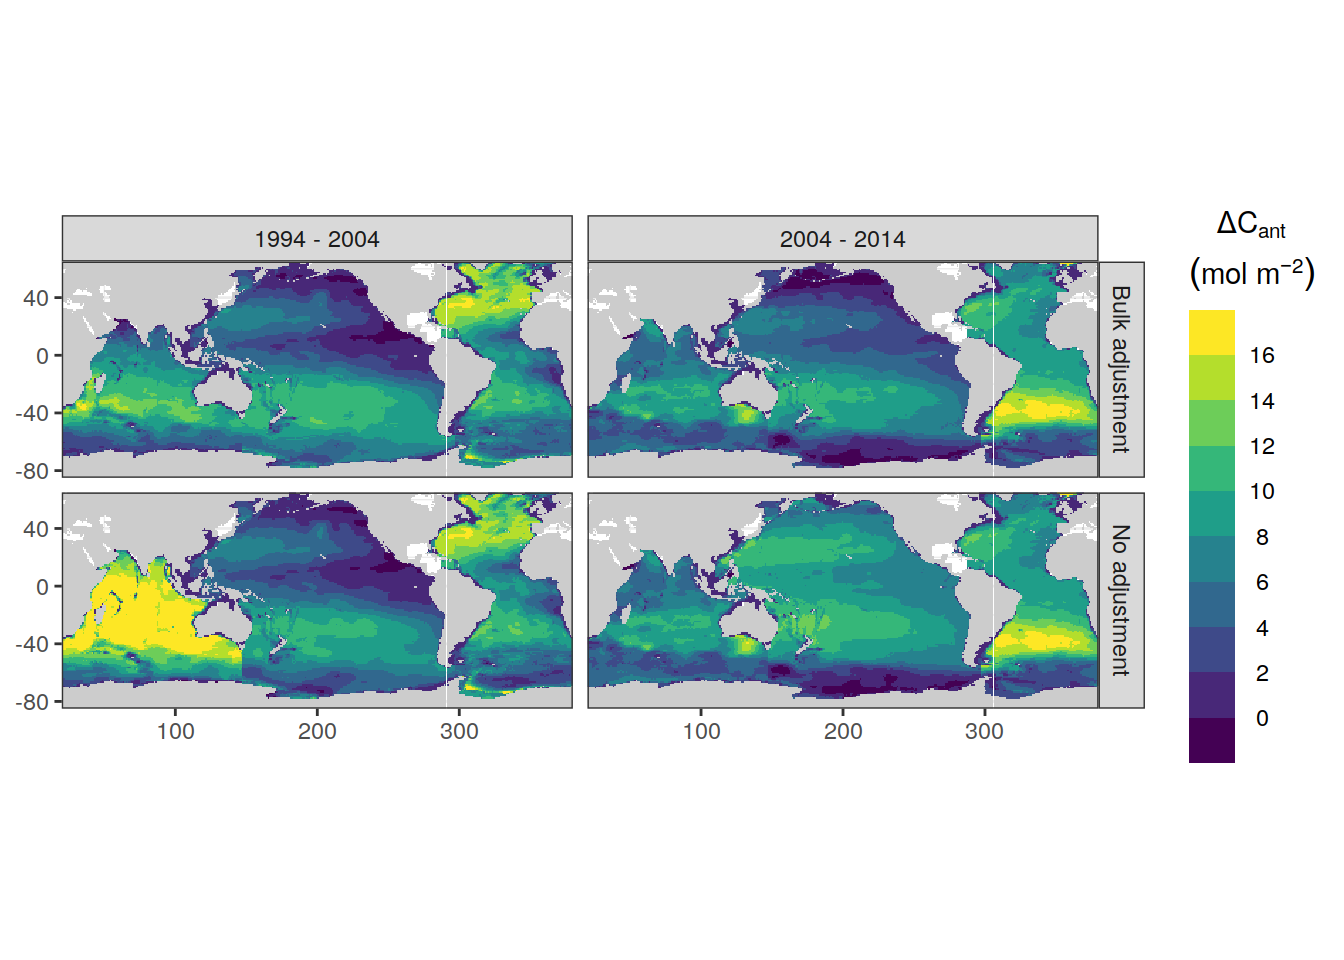
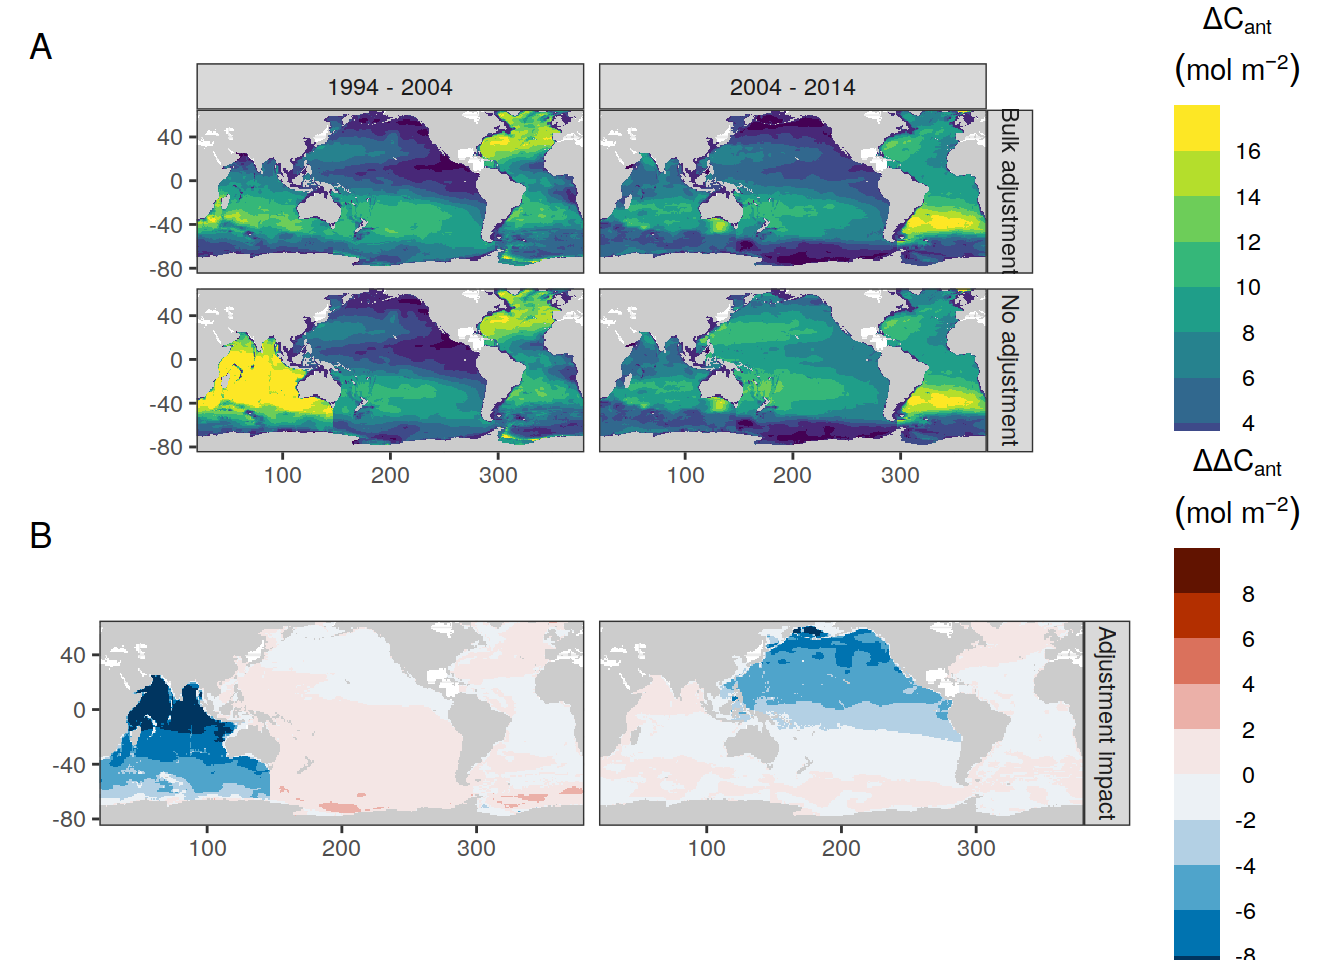
Build site.

diff --git a/docs/results_publication.html b/docs/results_publication.html
@@ -666,7 +666,7 @@ div.tocify {
 
 <h1 class="title toc-ignore">Results publication</h1>
 <h4 class="author">Jens Daniel Müller</h4>
-<h4 class="date">11 August, 2022</h4>
+<h4 class="date">17 August, 2022</h4>
 
 </div>
 
@@ -691,7 +691,7 @@ div.tocify {
 <div class="tab-content">
 <div id="summary" class="tab-pane fade in active">
 <p>
-<strong>Last updated:</strong> 2022-08-11
+<strong>Last updated:</strong> 2022-08-17
 </p>
 <p>
 <strong>Checks:</strong> <span class="glyphicon glyphicon-ok text-success" aria-hidden="true"></span> 7 <span class="glyphicon glyphicon-exclamation-sign text-danger" aria-hidden="true"></span> 0
@@ -782,16 +782,16 @@ This reproducible <a href="https://rmarkdown.rstudio.com">R Markdown</a> analysi
 <div class="panel panel-default">
 <div class="panel-heading">
 <p class="panel-title">
-<a data-toggle="collapse" data-parent="#workflowr-checks" href="#strongRepositoryversionstrongahrefhttpsgithubcomjensdanielmuelleremlrobsanalysistreed1cd39ad14c48bfc0824015935bd99fa0f0ff6d4targetblankd1cd39aa"> <span class="glyphicon glyphicon-ok text-success" aria-hidden="true"></span> <strong>Repository version:</strong> <a href="https://github.com/jens-daniel-mueller/emlr_obs_analysis/tree/d1cd39ad14c48bfc0824015935bd99fa0f0ff6d4" target="_blank">d1cd39a</a> </a>
+<a data-toggle="collapse" data-parent="#workflowr-checks" href="#strongRepositoryversionstrongahrefhttpsgithubcomjensdanielmuelleremlrobsanalysistree37ab61fed08648e21f1d213b0951e92988c08680targetblank37ab61fa"> <span class="glyphicon glyphicon-ok text-success" aria-hidden="true"></span> <strong>Repository version:</strong> <a href="https://github.com/jens-daniel-mueller/emlr_obs_analysis/tree/37ab61fed08648e21f1d213b0951e92988c08680" target="_blank">37ab61f</a> </a>
 </p>
 </div>
[2 lines of base64/hex data omitted]
 <div class="panel-body">
 <p>
 Great! You are using Git for version control. Tracking code development and connecting the code version to the results is critical for reproducibility.
 </p>
 <p>
-The results in this page were generated with repository version <a href="https://github.com/jens-daniel-mueller/emlr_obs_analysis/tree/d1cd39ad14c48bfc0824015935bd99fa0f0ff6d4" target="_blank">d1cd39a</a>. See the <em>Past versions</em> tab to see a history of the changes made to the R Markdown and HTML files.
+The results in this page were generated with repository version <a href="https://github.com/jens-daniel-mueller/emlr_obs_analysis/tree/37ab61fed08648e21f1d213b0951e92988c08680" target="_blank">37ab61f</a>. See the <em>Past versions</em> tab to see a history of the changes made to the R Markdown and HTML files.
 </p>
 <p>
 Note that you need to be careful to ensure that all relevant files for the analysis have been committed to Git prior to generating the results (you can use <code>wflow_publish</code> or <code>wflow_git_commit</code>). workflowr only checks the R Markdown file, but you know if there are other scripts or data files that it depends on. Below is the status of the Git repository when the results were generated:
@@ -844,6 +844,40 @@ Message
 </tr>
 </thead>
 <tbody>
+<tr>
+<td>
+Rmd
+</td>
+<td>
+<a href="https://github.com/jens-daniel-mueller/emlr_obs_analysis/blob/37ab61fed08648e21f1d213b0951e92988c08680/analysis/results_publication.Rmd" target="_blank">37ab61f</a>
+</td>
+<td>
+jens-daniel-mueller
+</td>
+<td>
+2022-08-17
+</td>
+<td>
+added adjustment delta map
+</td>
+</tr>
+<tr>
+<td>
+html
+</td>
+<td>
+<a href="https://rawcdn.githack.com/jens-daniel-mueller/emlr_obs_analysis/ec4f1d01a23f0fd62c65bea5046a6d18b479a9e6/docs/results_publication.html" target="_blank">ec4f1d0</a>
+</td>
+<td>
+jens-daniel-mueller
+</td>
+<td>
+2022-08-11
+</td>
+<td>
+Build site.
+</td>
+</tr>
 <tr>
 <td>
 Rmd
@@ -8367,11 +8401,31 @@ jens-daniel-mueller
          Version_ID %in% Version_IDs |
            Version_ID %in% Version_IDs_d)
 
-
+p_CI_unadjusted &lt;- 
 dcant_inv_all_unadjusted %&gt;%
   p_map_cant_inv(var = &quot;dcant&quot;,
                  title_text = NULL) +
-  facet_grid(Version_ID_group ~ period)</code></pre>
+  facet_grid(Version_ID_group ~ period)
+
+p_CI_unadjusted_bias &lt;-
+  dcant_inv_all_unadjusted %&gt;%
+  select(Version_ID_group, lon, lat, basin_AIP, period, dcant) %&gt;%
+  pivot_wider(names_from = Version_ID_group,
+              values_from = dcant) %&gt;%
+  mutate(dcant_offset = `Bulk adjustment` - `No adjustment`,
+         data_source = &quot;Adjustment impact&quot;) %&gt;%
+  p_map_cant_inv(
+    var = &quot;dcant_offset&quot;,
+    title_text = NULL,
+    subtitle_text = NULL,
+    col = &quot;bias&quot;
+  ) +
+  facet_grid(data_source ~ period) +
+  theme(strip.text.x = element_blank(),
+        strip.background.x = element_blank())
+
+p_CI_unadjusted / p_CI_unadjusted_bias + 
+  plot_annotation(tag_levels = &#39;A&#39;)</code></pre>
 <p><img src="figure/results_publication.Rmd/column_inventory_unadjusted_data-1.png" width="672" style="display: block; margin: auto;" /></p>
 <p>
 <button type="button" class="btn btn-default btn-xs btn-workflowr btn-workflowr-fig" data-toggle="collapse" data-target="#fig-column_inventory_unadjusted_data-1">
@@ -8467,8 +8521,10 @@ jens-daniel-mueller
 </div>
 <pre class="r"><code>ggsave(path = here::here(&quot;output/publication&quot;),
        filename = &quot;FigS_dcant_column_inventory_unadjusted_data.png&quot;,
-       height = 4,
-       width = 8)</code></pre>
+       height = 7,
+       width = 8)
+
+rm(p_CI_unadjusted, p_CI_unadjusted_bias)</code></pre>
 </div>
 <div id="beta" class="section level3" number="7.1.6">
 <h3><span class="header-section-number">7.1.6</span> beta</h3>

diff --git a/docs/index.html b/docs/index.html
@@ -582,7 +582,7 @@ $(document).ready(function () {
 
 <h1 class="title toc-ignore">Home</h1>
 <h4 class="author">Jens Daniel Müller</h4>
-<h4 class="date">11 August, 2022</h4>
+<h4 class="date">17 August, 2022</h4>
 
 </div>
 
@@ -607,7 +607,7 @@ $(document).ready(function () {
 <div class="tab-content">
 <div id="summary" class="tab-pane fade in active">
 <p>
-<strong>Last updated:</strong> 2022-08-11
+<strong>Last updated:</strong> 2022-08-17
 </p>
 <p>
 <strong>Checks:</strong> <span class="glyphicon glyphicon-ok text-success" aria-hidden="true"></span> 7 <span class="glyphicon glyphicon-exclamation-sign text-danger" aria-hidden="true"></span> 0
@@ -698,16 +698,16 @@ This reproducible <a href="https://rmarkdown.rstudio.com">R Markdown</a> analysi
 <div class="panel panel-default">
 <div class="panel-heading">
 <p class="panel-title">
-<a data-toggle="collapse" data-parent="#workflowr-checks" href="#strongRepositoryversionstrongahrefhttpsgithubcomjensdanielmuelleremlrobsanalysistreed1cd39ad14c48bfc0824015935bd99fa0f0ff6d4targetblankd1cd39aa"> <span class="glyphicon glyphicon-ok text-success" aria-hidden="true"></span> <strong>Repository version:</strong> <a href="https://github.com/jens-daniel-mueller/emlr_obs_analysis/tree/d1cd39ad14c48bfc0824015935bd99fa0f0ff6d4" target="_blank">d1cd39a</a> </a>
+<a data-toggle="collapse" data-parent="#workflowr-checks" href="#strongRepositoryversionstrongahrefhttpsgithubcomjensdanielmuelleremlrobsanalysistree37ab61fed08648e21f1d213b0951e92988c08680targetblank37ab61fa"> <span class="glyphicon glyphicon-ok text-success" aria-hidden="true"></span> <strong>Repository version:</strong> <a href="https://github.com/jens-daniel-mueller/emlr_obs_analysis/tree/37ab61fed08648e21f1d213b0951e92988c08680" target="_blank">37ab61f</a> </a>
 </p>
 </div>
[2 lines of base64/hex data omitted]
 <div class="panel-body">
 <p>
 Great! You are using Git for version control. Tracking code development and connecting the code version to the results is critical for reproducibility.
 </p>
 <p>
-The results in this page were generated with repository version <a href="https://github.com/jens-daniel-mueller/emlr_obs_analysis/tree/d1cd39ad14c48bfc0824015935bd99fa0f0ff6d4" target="_blank">d1cd39a</a>. See the <em>Past versions</em> tab to see a history of the changes made to the R Markdown and HTML files.
+The results in this page were generated with repository version <a href="https://github.com/jens-daniel-mueller/emlr_obs_analysis/tree/37ab61fed08648e21f1d213b0951e92988c08680" target="_blank">37ab61f</a>. See the <em>Past versions</em> tab to see a history of the changes made to the R Markdown and HTML files.
 </p>
 <p>
 Note that you need to be careful to ensure that all relevant files for the analysis have been committed to Git prior to generating the results (you can use <code>wflow_publish</code> or <code>wflow_git_commit</code>). workflowr only checks the R Markdown file, but you know if there are other scripts or data files that it depends on. Below is the status of the Git repository when the results were generated:
@@ -760,6 +760,23 @@ Message
 </tr>
 </thead>
 <tbody>
+<tr>
+<td>
+html
+</td>
+<td>
+<a href="https://rawcdn.githack.com/jens-daniel-mueller/emlr_obs_analysis/ec4f1d01a23f0fd62c65bea5046a6d18b479a9e6/docs/index.html" target="_blank">ec4f1d0</a>
+</td>
+<td>
+jens-daniel-mueller
+</td>
+<td>
+2022-08-11
+</td>
+<td>
+Build site.
+</td>
+</tr>
 <tr>
 <td>
 html
